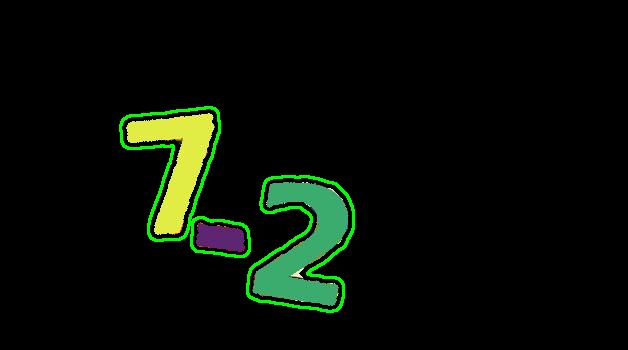
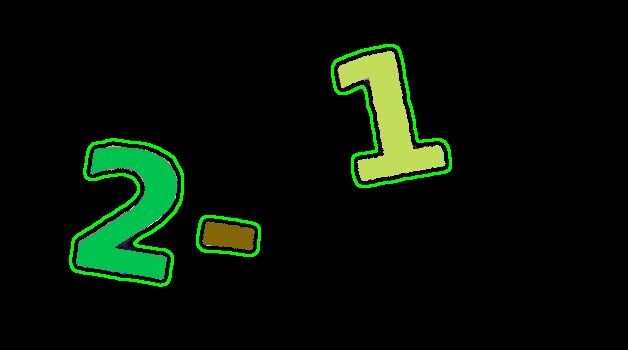
modified:   tumbermonkey copy.js

Changed region(s): [[0.0908, 0.1143, 0.7261, 0.9143]]

diff --git a/tumbermonkey copy.js b/tumbermonkey copy.js
@@ -97,9 +97,13 @@
                 }
             }
 
-            let a = eval(solve.join(''))
-            if (Number(a) <= 0) {
-                solve = solve[2] + '-' + solve[0]
+            if (['-'].includes(solve[1])) {
+                if (Number(solve[2]) > Number(solve[0])) {
+                    solve = solve[0] + '-' + solve[2]
+                }
+            }
+            if (nums.includes(solve[0]) && nums.includes(solve[1]) && nums.includes(solve[2])) {
+                solve = ['1', '+', '2'];
             }
             if (solve.includes(null)) {
                 solve = ['1', '+', '1'];
